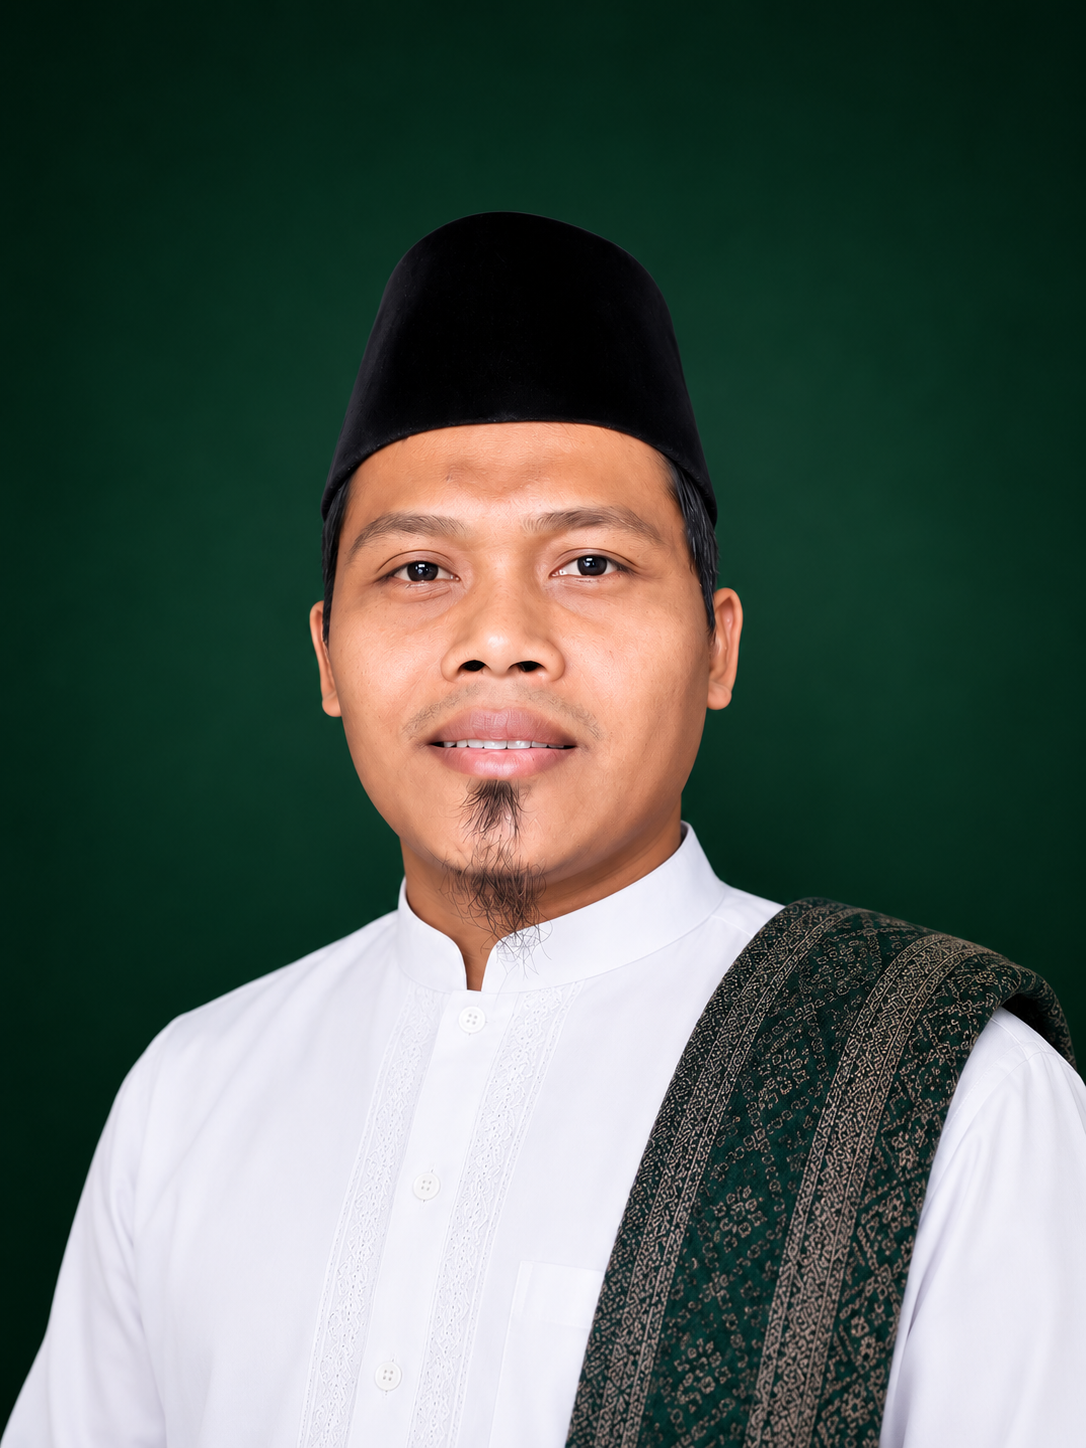
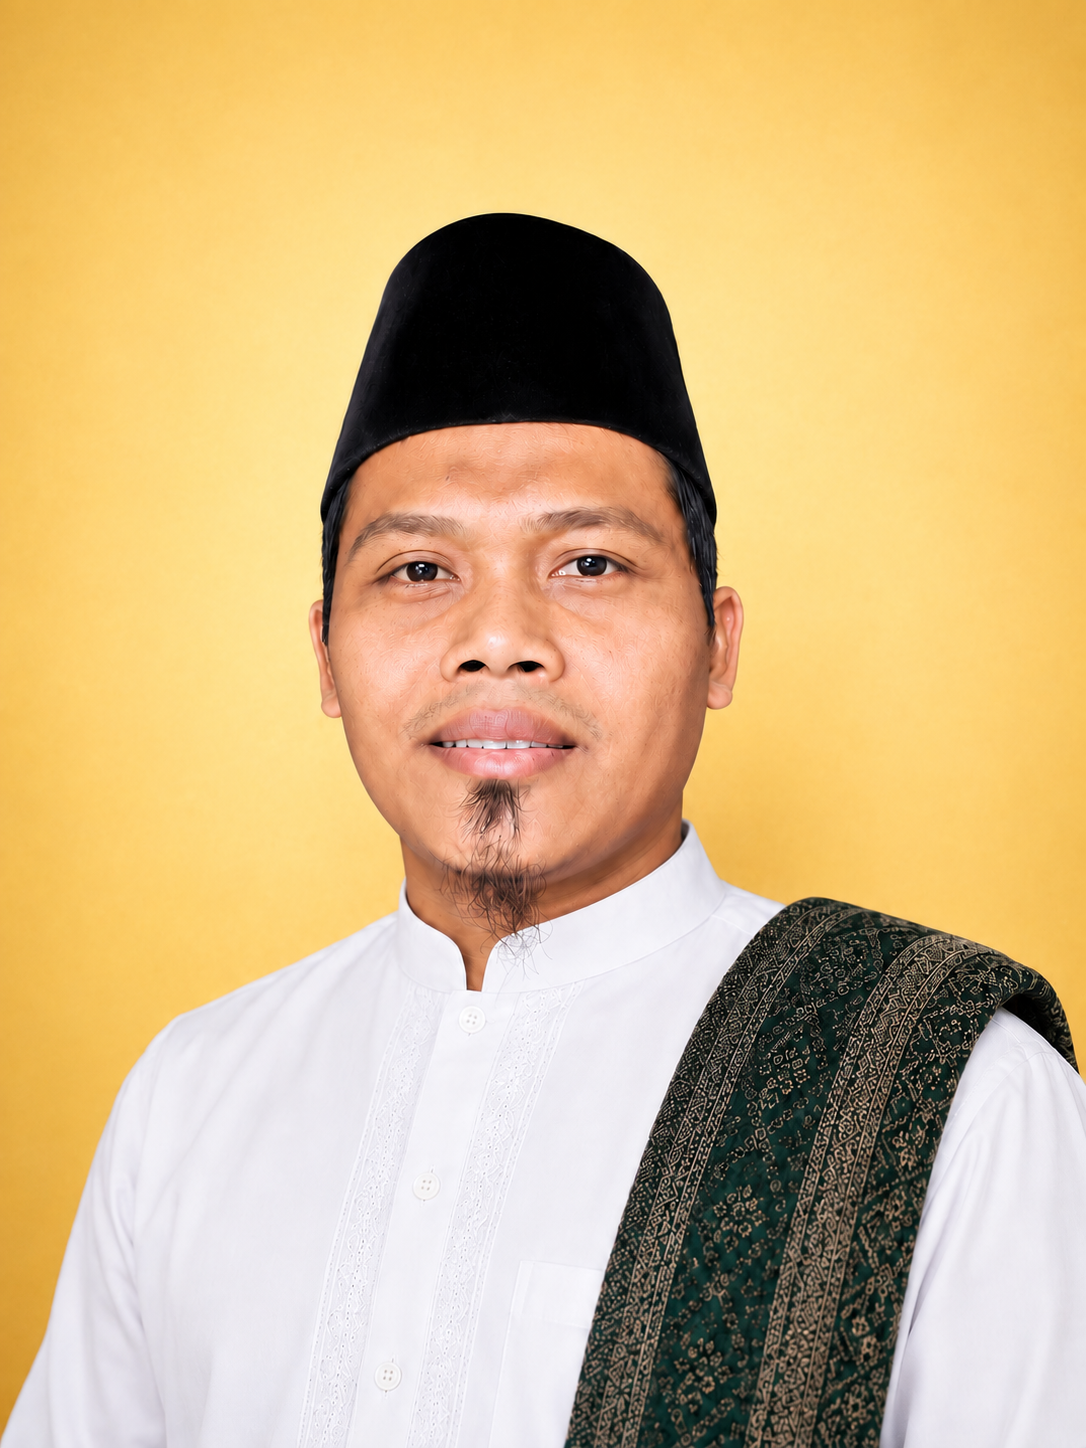
Update website

diff --git a/src/lib/data.ts b/src/lib/data.ts
@@ -549,13 +549,13 @@ export const orgStructure = [
   { role: "Pengawas", name: "Ka Drs. Moh. Arifin" },
   { role: "Koordinator Sekretariat & Penjaminan Mutu", name: "Ust. Tristan Ammar Tsaqib" },
   { role: "Koordinator Pendidikan", name: "Usth. Khoridatul Fitriah, Lc." },
-  { role: "Koordinator Tahfizh", name: "Usth. Fiiki Qomariatul Jannah Al-Hafidzah" },
+  { role: "Koordinator Tahfizh", name: "Usth. Fiiki Qomariyatul Jannah Al-Hafidzah" },
   { role: "Koordinator Pembinaan Santri Putra", name: "Ust. Fahmi Rakhmatullah" },
   { role: "Koordinator Pembinaan Santri Putri", name: "Usth. Aimatus Salma" },
   { role: "Keuangan & SPP", name: "Usth. Muttaqiya Zulfa" },
-  { role: "Sarana Prasarana", name: "Usth. Muttaqiya Zulfa" },
-  { role: "Keuangan & SPP", name: "Ust. Abu Fadhil" },
+  { role: "Sarana Prasarana", name: "Ust. Abu Fadhil" },
   { role: "Humas, Dakwah & Media", name: "Ust. Mu'awan Haqiqy, Lc." },
+  { role: "", name: "" },
 ];
 
 export const admissionSteps = [
@@ -637,5 +637,6 @@ export const dailySchedule = [
   { time: "18.45", activity: "Shalat Isya'" },
   { time: "19.30", activity: "Belajar Mufrodat Arab/Inggris" },
   { time: "20.00", activity: "Tilawah Mandiri/Belajar Malam" },
-  { time: "20.45", activity: "Persiapan Tidur dan Wajib Tidur" },
+  { time: "20.45", activity: "Persiapan Tidur" },
+  { time: "21.30", activity: "Wajib Tidur" },
 ];

diff --git a/src/components/footer.tsx b/src/components/footer.tsx
@@ -1,5 +1,5 @@
 import { Link } from "@tanstack/react-router";
-import { Facebook, Instagram, Mail, MapPin, Phone, Youtube } from "lucide-react";
+import { Facebook, Instagram, Mail, MapPin, Phone, Youtube, Tiktok } from "lucide-react";
 
 import { Logo } from "@/components/logo";
 import { programs, school } from "@/lib/data";
@@ -55,6 +55,17 @@ export function Footer() {
                 className="grid size-11 place-items-center rounded-2xl border border-white/15 transition-colors hover:border-gold hover:text-gold"
               >
                 <Facebook className="size-5" aria-hidden="true" />
+              </a>
+            </li>
+            <li>
+              <a
+                href={school.social.tiktok}
+                aria-label="Tiktok PPTQ Nurul Huda"
+                target="_blank"
+                rel="noreferrer"
+                className="grid size-11 place-items-center rounded-2xl border border-white/15 transition-colors hover:border-gold hover:text-gold"
+              >
+                <Tiktok className="size-5" aria-hidden="true" />
               </a>
             </li>
           </ul>
